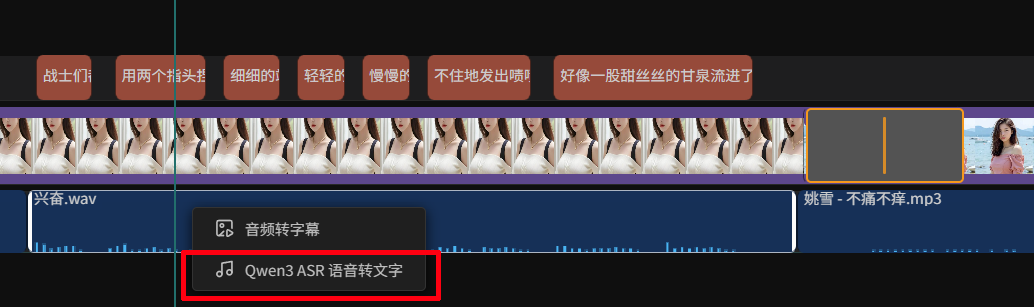
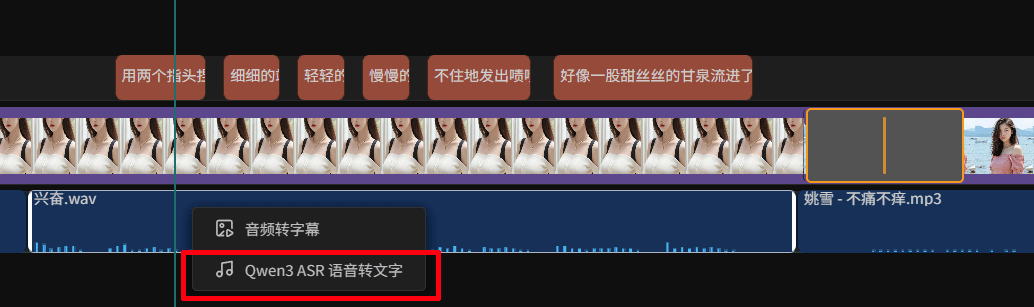
ComeCut: 发布 Windows 桌面版 - v0.1.4

Changed region(s): [[0.0309, 0.1759, 0.0928, 0.3225]]

diff --git a/README.md b/README.md
@@ -52,6 +52,7 @@ gemini-3-pro-image-preview
 > Note: It downloads the model from huggingface.co       
 *   ⬇ **Desktop version**: The desktop version (Windows) has been successfully compiled and is now available for download!      
 
+> To keep you up-to-date, the developer version is set to expire automatically after 30 days.  
 
 ---
 

diff --git a/README_ZH.md b/README_ZH.md
@@ -52,6 +52,7 @@ gemini-3-pro-image-preview
 
 *   ⬇ **桌面版本**: 桌面版(Windows)已成功编译,现在可以下载使用了!    
 
+> 为了让您保持体验最新版本, 开发版设置为30天自动过期.   
 ---
 
 ## ✨ 高度自由的 Python 本地扩展  
